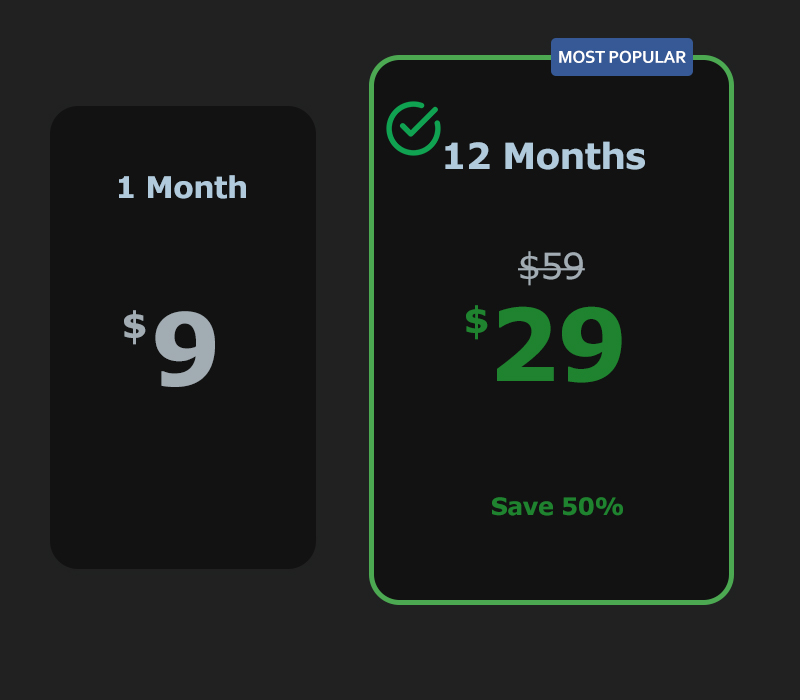
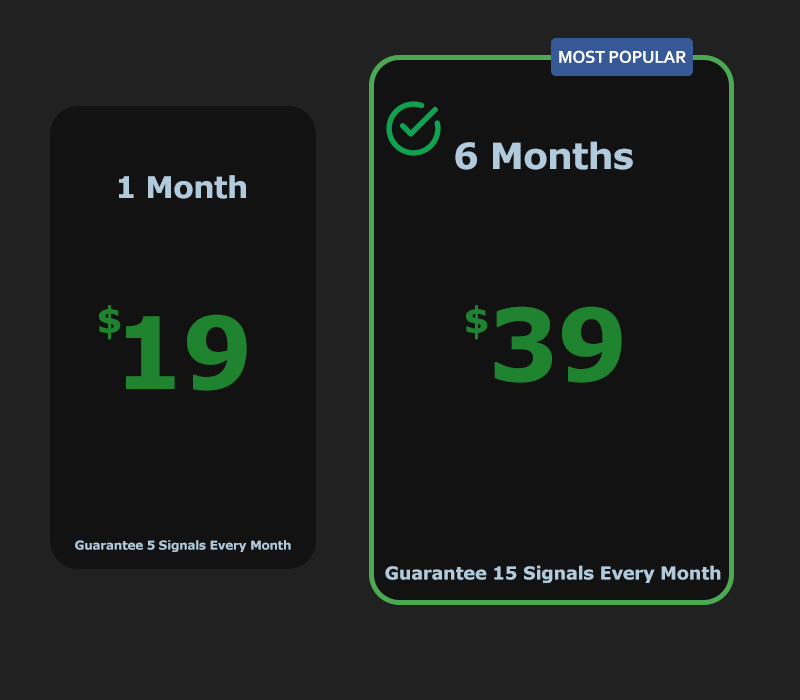
Updated Plans

diff --git a/telegramBot.js b/telegramBot.js
@@ -123,8 +123,8 @@ async function join(chatId) {
     //var userSubscription = await subController.findByChatId(chatId)
     var displayMessage = ""
 
-    var plan1 = `1 Month: 6 USDT`
-    var plan2 = `12 Months: 29 USDT`
+    var plan1 = `1 Month: 19 USDT`
+    var plan2 = `12 Months: 39 USDT`
 
 
     // if (userSubscription.invited_code >0) {
@@ -141,7 +141,7 @@ async function join(chatId) {
 
     displayMessage = displayMessage + `The following subscription plans are available, \n choose one of them `;
 
-    bot.telegram.sendPhoto(chatId, { source: 'images/discount_offer2.jpg' }, {
+    bot.telegram.sendPhoto(chatId, { source: 'images/discount_offer.jpg' }, {
         caption: displayMessage,
         reply_markup: {
             inline_keyboard: [
@@ -180,7 +180,7 @@ bot.action('contact_us', ctx => {
 });
 bot.action('plan1', ctx => {
 
-    showPaymentSolutionsList(ctx.chat.id, 6)
+    showPaymentSolutionsList(ctx.chat.id, 9)
 
     return
     (async () => {
@@ -209,7 +209,7 @@ bot.action('plan1', ctx => {
     })()
 });
 bot.action('plan2', ctx => {
-    showPaymentSolutionsList(ctx.chat.id, 29)
+    showPaymentSolutionsList(ctx.chat.id, 39)
 });
 
 
